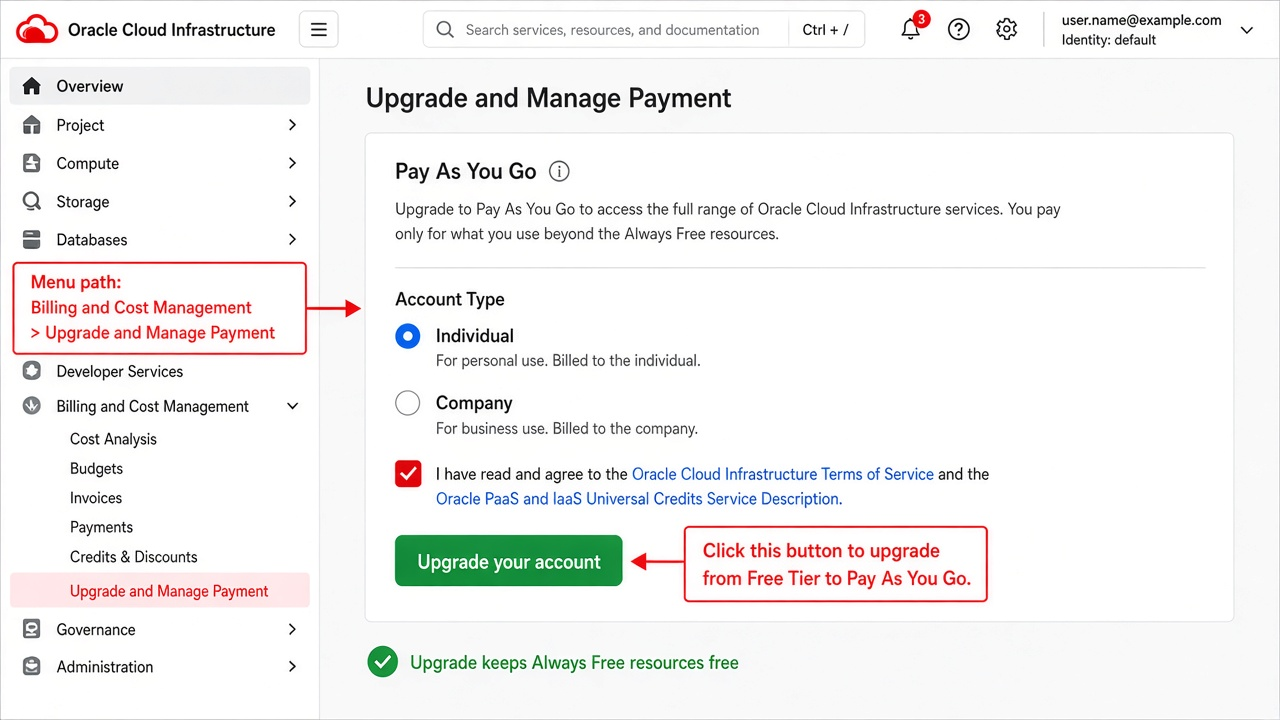
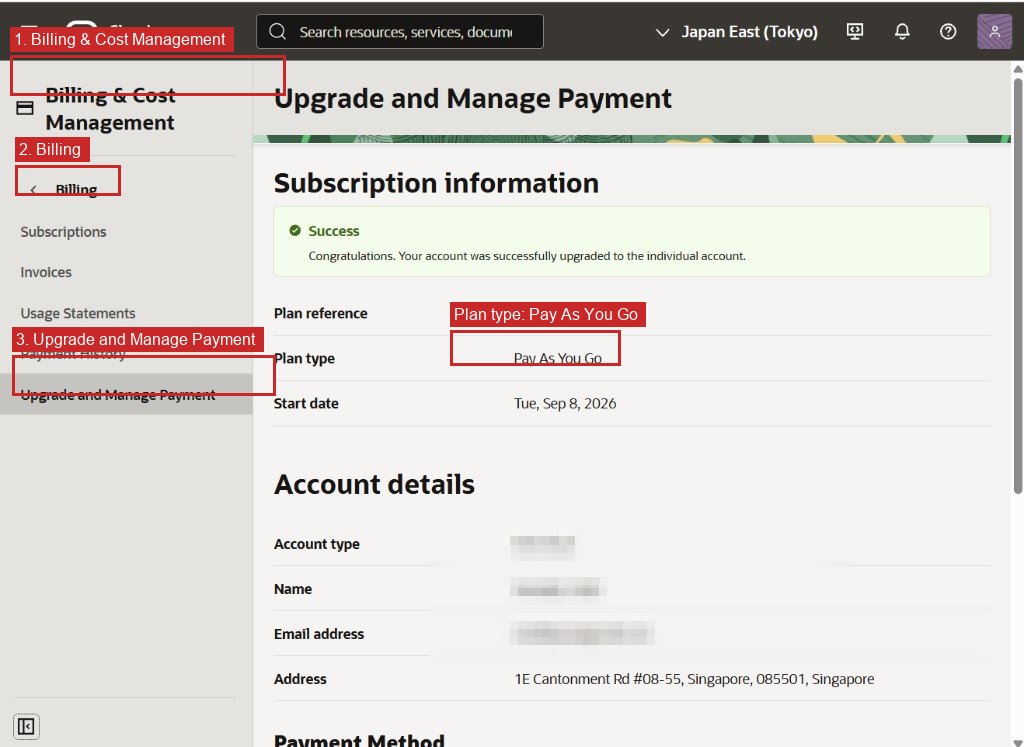
Replace PAYG upgrade guide with real console screenshot and menu path.
Use Billing & Cost Management > Billing > Upgrade and Manage Payment, blur account PII, and add click-by-click steps.

diff --git a/app/minorwire/setup/copy.ts b/app/minorwire/setup/copy.ts
@@ -153,9 +153,16 @@ export const SETUP_COPY: Record<string, SetupCopy> = {
         id: 'upgrade',
         title: 'Step 4 — Pay As You Go（有料アカウント）へアップグレード',
         body:
-          'コンソール → Billing & Cost Management → Upgrade and Manage Payment → Pay As You Go → Individual → Upgrade。Always Free のリソースは引き続き無料です。容量確保のためこの手順を推奨します。反映に1〜2日かかることがあります。アップグレード時、カードに約 USD $100 のオーソリ（与信枠の確保）がかかることがあります。これは実課金ではなく、確認後に取り消されます。',
+          'メニューは Billing & Cost Management → Billing → Upgrade and Manage Payment です（下の直リンクでも開けます）。Pay As You Go → Individual → Upgrade。Always Free のリソースは引き続き無料です。容量確保のためこの手順を推奨します。反映に1〜2日かかることがあります。アップグレード時、カードに約 USD $100 のオーソリ（与信枠の確保）がかかることがあります。これは実課金ではなく、確認後に取り消されます。成功すると Plan type が Pay As You Go と表示されます。',
+        clickSteps: [
+          'コンソール左上メニュー（≡）→ Billing & Cost Management',
+          'Billing → Upgrade and Manage Payment（または下の直リンク）',
+          'Pay As You Go を選び、Account type は Individual',
+          'Upgrade を実行（約 USD $100 のオーソリがかかることがあります。後で取消）',
+          '完了後、Plan type が Pay As You Go になっていることを確認',
+        ],
         image: '/minorwire/guide/signup-04-upgrade-payg.png',
-        imageAlt: 'Upgrade to Pay As You Go',
+        imageAlt: 'Billing & Cost Management > Billing > Upgrade and Manage Payment',
         ociLink: 'billingUpgrade',
         linkLabel: 'Upgrade and Manage Payment を開く',
       },
@@ -344,9 +351,16 @@ export const SETUP_COPY: Record<string, SetupCopy> = {
         id: 'upgrade',
         title: 'Step 4 — Upgrade to Pay As You Go',
         body:
-          'Console → Billing & Cost Management → Upgrade and Manage Payment → Pay As You Go → Individual → Upgrade. Always Free resources stay free. Upgrade can take 1–2 days. During upgrade, Oracle may place an authorization hold of about USD $100 on your card. This is not a charge and is reversed after verification.',
+          'Menu path: Billing & Cost Management → Billing → Upgrade and Manage Payment (or use the direct link below). Choose Pay As You Go → Individual → Upgrade. Always Free resources stay free. Upgrade can take 1–2 days. During upgrade, Oracle may place an authorization hold of about USD $100 on your card. This is not a charge and is reversed after verification. When done, Plan type shows Pay As You Go.',
+        clickSteps: [
+          'Open the console hamburger (≡) → Billing & Cost Management',
+          'Billing → Upgrade and Manage Payment (or the direct link below)',
+          'Select Pay As You Go, Account type Individual',
+          'Click Upgrade (about USD $100 authorization may appear; it is reversed later)',
+          'Confirm Plan type is Pay As You Go',
+        ],
         image: '/minorwire/guide/signup-04-upgrade-payg.png',
-        imageAlt: 'Upgrade to Pay As You Go',
+        imageAlt: 'Billing & Cost Management > Billing > Upgrade and Manage Payment',
         ociLink: 'billingUpgrade',
         linkLabel: 'Open Upgrade and Manage Payment',
       },
@@ -533,9 +547,16 @@ export const SETUP_COPY: Record<string, SetupCopy> = {
         id: 'upgrade',
         title: 'Step 4 — 升级到 Pay As You Go',
         body:
-          '控制台 → Billing & Cost Management → Upgrade and Manage Payment → Pay As You Go → Individual → Upgrade。Always Free 资源仍免费。升级可能需要 1–2 天。升级时卡片上可能出现约 USD $100 的预授权（占用额度），这不是实际扣款，验证后会撤销。',
+          '菜单路径：Billing & Cost Management → Billing → Upgrade and Manage Payment（也可用下方直链）。选择 Pay As You Go → Individual → Upgrade。Always Free 资源仍免费。升级可能需要 1–2 天。升级时卡片上可能出现约 USD $100 的预授权（占用额度），这不是实际扣款，验证后会撤销。完成后 Plan type 会显示为 Pay As You Go。',
+        clickSteps: [
+          '打开控制台左上菜单（≡）→ Billing & Cost Management',
+          'Billing → Upgrade and Manage Payment（或使用下方直链）',
+          '选择 Pay As You Go，Account type 选 Individual',
+          '点击 Upgrade（可能出现约 USD $100 预授权，之后会撤销）',
+          '确认 Plan type 为 Pay As You Go',
+        ],
         image: '/minorwire/guide/signup-04-upgrade-payg.png',
-        imageAlt: 'Upgrade to Pay As You Go',
+        imageAlt: 'Billing & Cost Management > Billing > Upgrade and Manage Payment',
         ociLink: 'billingUpgrade',
         linkLabel: '打开 Upgrade and Manage Payment',
       },

diff --git a/scripts/blur_upgrade_guide.py b/scripts/blur_upgrade_guide.py
@@ -1,0 +1,67 @@
+"""Blur PII and annotate the Upgrade and Manage Payment console screenshot."""
+from PIL import Image, ImageDraw, ImageFont
+import os
+
+ASSETS = r"C:\Users\Johji\.cursor\projects\d-dancefloor-MinorWire\assets"
+OUT = r"D:\dancefloor\jittee\public\minorwire\guide"
+
+
+def asset(suffix: str) -> str:
+    for name in os.listdir(ASSETS):
+        if name.endswith(suffix):
+            return os.path.join(ASSETS, name)
+    raise FileNotFoundError(suffix)
+
+
+def mosaic(im: Image.Image, box, block: int = 10) -> None:
+    x0, y0, x1, y1 = [int(v) for v in box]
+    x0, y0 = max(0, x0), max(0, y0)
+    x1, y1 = min(im.width, x1), min(im.height, y1)
+    if x1 <= x0 or y1 <= y0:
+        return
+    crop = im.crop((x0, y0, x1, y1))
+    small = crop.resize(
+        (max(1, (x1 - x0) // block), max(1, (y1 - y0) // block)),
+        Image.Resampling.BILINEAR,
+    )
+    im.paste(small.resize((x1 - x0, y1 - y0), Image.Resampling.NEAREST), (x0, y0))
+
+
+def callout(im: Image.Image, box, text: str, tag_above: bool = True) -> None:
+    d = ImageDraw.Draw(im)
+    d.rectangle(box, outline=(200, 40, 40), width=3)
+    try:
+        font = ImageFont.truetype("arial.ttf", 16)
+    except Exception:
+        font = ImageFont.load_default()
+    tw = int(font.getlength(text)) + 12
+    th = 24
+    ly0 = max(0, box[1] - th - 4) if tag_above else min(im.height - th, box[3] + 4)
+    lx0 = max(0, min(box[0], im.width - tw))
+    d.rectangle((lx0, ly0, lx0 + tw, ly0 + th), fill=(200, 40, 40))
+    d.text((lx0 + 4, ly0 + 3), text, fill=(255, 255, 255), font=font)
+
+
+im = Image.open(asset("image-887a4d46-fbf8-4d13-b73b-9d406f27296c.png")).convert("RGB")
+
+# Blur Name / Email / Address values (keep labels and layout)
+mosaic(im, (430, 500, 920, 545), block=8)  # Name
+mosaic(im, (430, 545, 850, 585), block=8)  # Email
+mosaic(im, (430, 580, 1000, 670), block=8)  # Address
+
+# Menu path callouts
+callout(im, (10, 55, 285, 95), "1. Billing & Cost Management")
+callout(im, (15, 165, 120, 195), "2. Billing")
+callout(im, (12, 355, 275, 395), "3. Upgrade and Manage Payment")
+
+# After upgrade: Pay As You Go
+callout(im, (450, 330, 620, 365), "Plan type: Pay As You Go")
+
+out = os.path.join(OUT, "signup-04-upgrade-payg.png")
+im.save(out, optimize=True)
+print("saved", out, im.size)
+
+for name in os.listdir(OUT):
+    if name.startswith("_"):
+        os.remove(os.path.join(OUT, name))
+print("cleaned")
